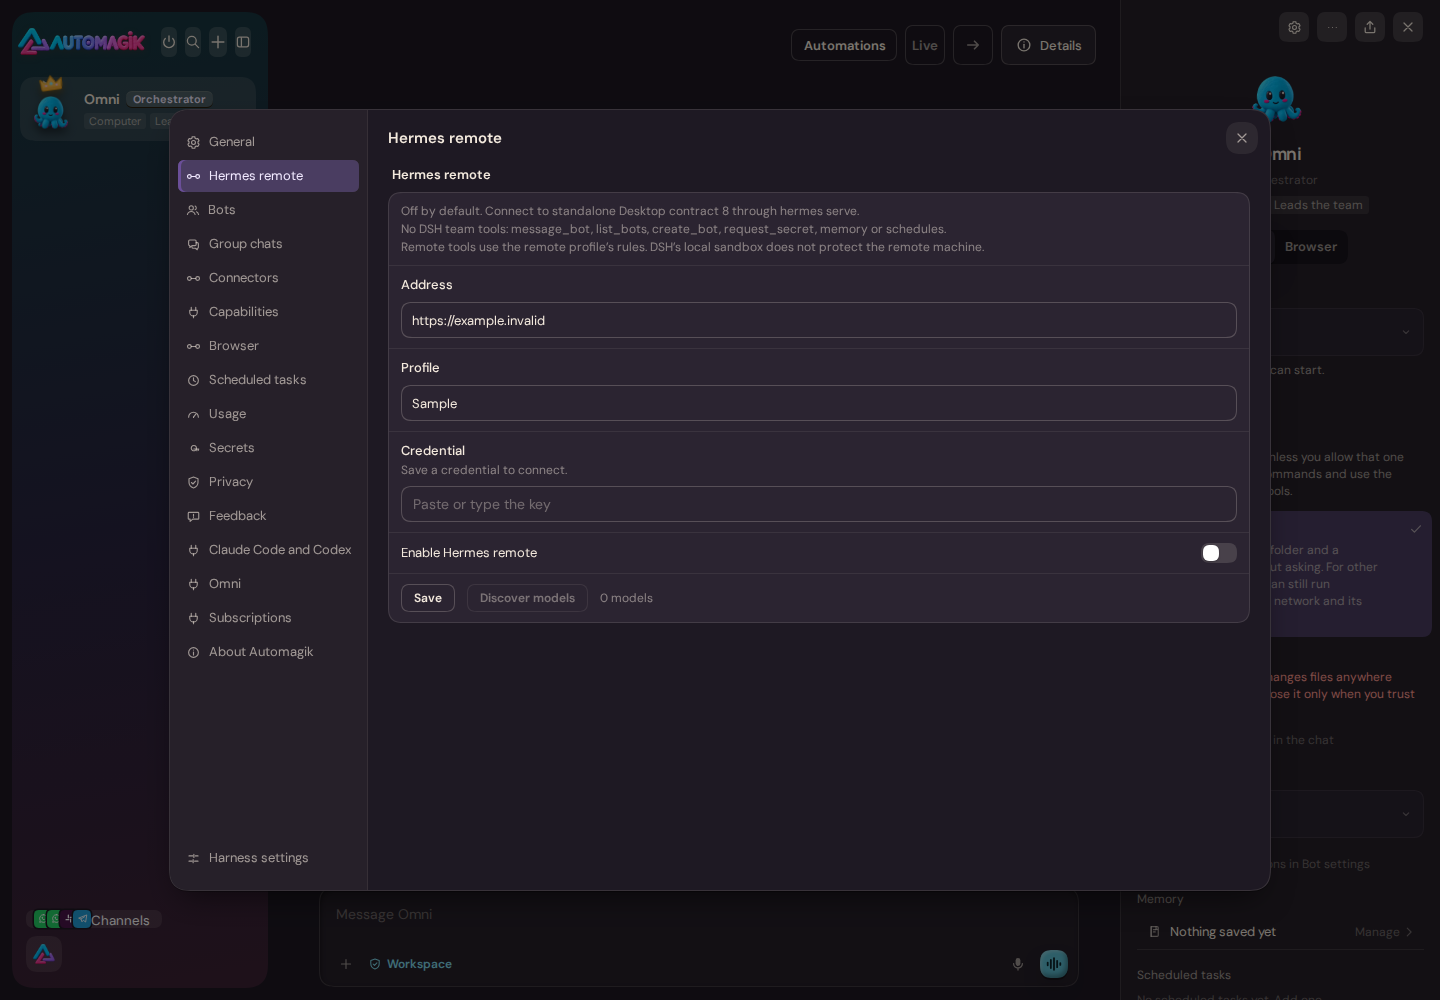
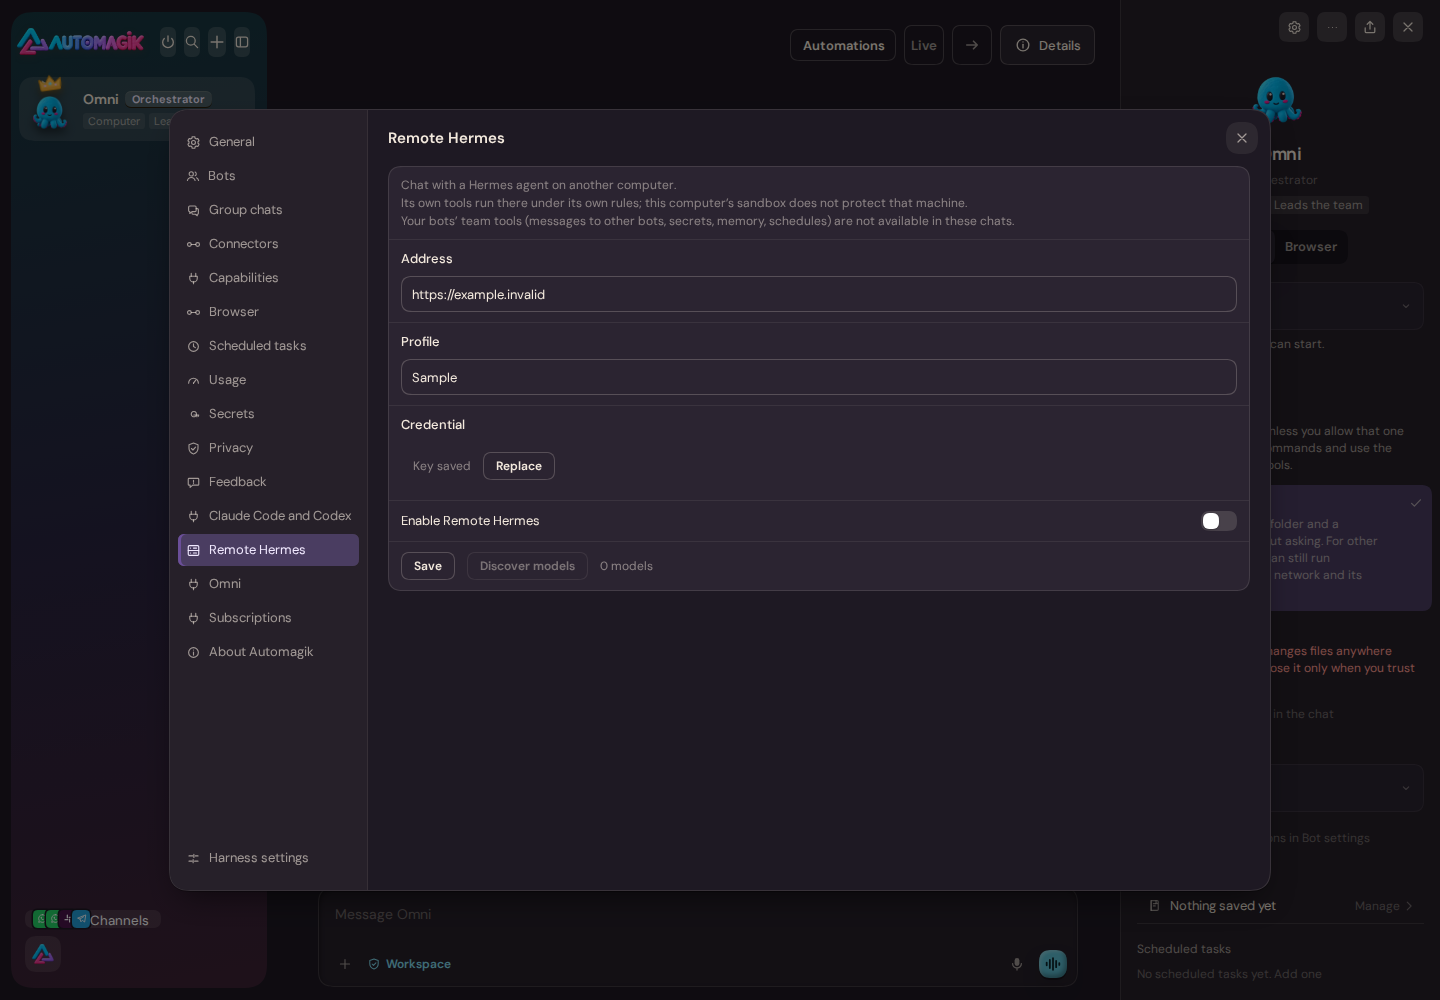
docs(pr): refresh remote Hermes UI review captures
Show the revised route row and adjacent settings entry in light and dark themes.
Use sample saved-key state and verify an empty password replacement input.

Refs #1070

diff --git a/docs/pr/1070-shots/README.md b/docs/pr/1070-shots/README.md
@@ -1,7 +1,7 @@
 # Temporary PR 1075 UI captures
 
 These screenshots show the real running app with the selector amendment and the dedicated
-Hermes remote entry in Bot settings, using the app's own light and dark themes.
+Remote Hermes entry in Bot settings, using the app's own light and dark themes.
 
 - [Light route selector](light-route-selector.png)
 - [Dark route selector](dark-route-selector.png)
@@ -11,11 +11,12 @@ Hermes remote entry in Bot settings, using the app's own light and dark themes.
 The approved probe ran `node scripts/boot-check.mjs --keep <scratch>/boot` with scratch
 outside the repository. DSH bound only to loopback, with its own app homes and an empty
 child home. Runtime egress was blocked. Hermes settings came from a browser-side disposable
-fixture; the reserved example address was never contacted. The credential field is empty,
-and the profile had no CLI logins or provider credentials. No real Hermes was started.
+fixture; the reserved example address was never contacted. The saved-key state is sample data only; the probe also verified that Replace opens an empty
+password input. The profile had no CLI logins or provider credentials. No real Hermes was started.
 
 The installed client bundle matched the checkout byte for byte:
[2 lines of base64/hex data omitted]
+The probe also checked the single page heading, settings order and one-line route subtitle.
 The probe exited successfully and its owned process groups were stopped.
 
 These files are held for the orchestrator's review before the owner's UI review. Remove
